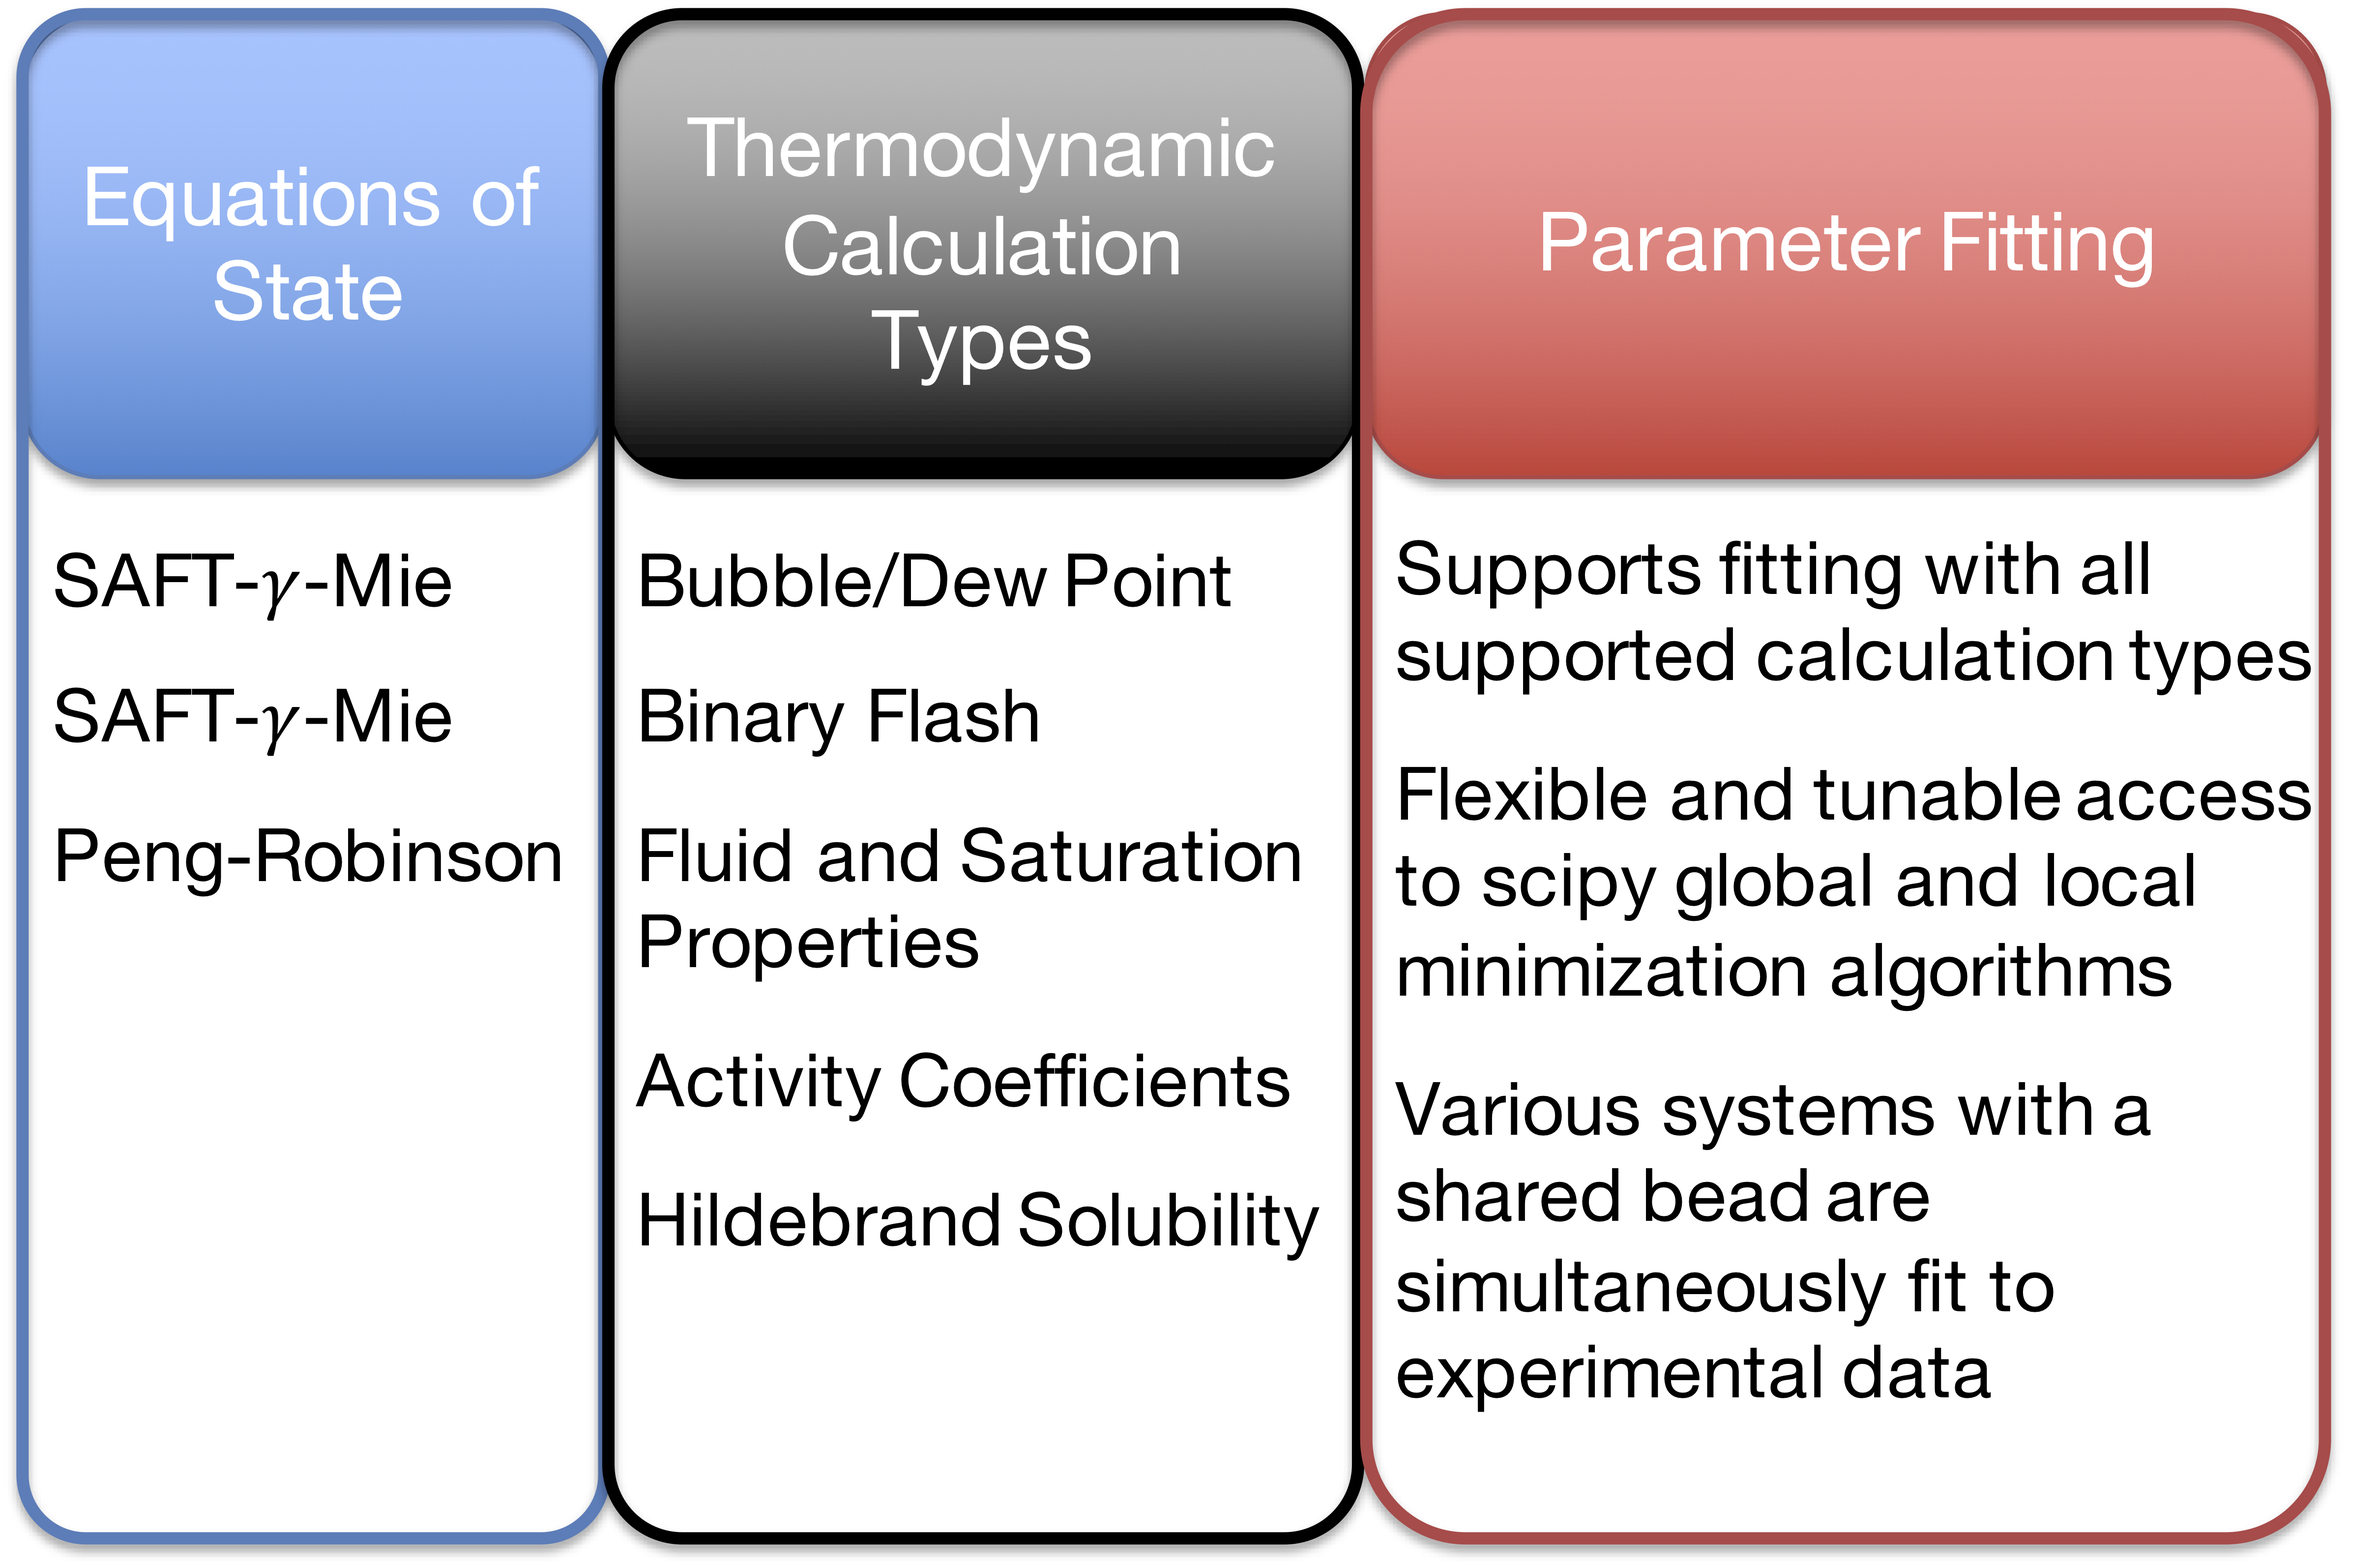
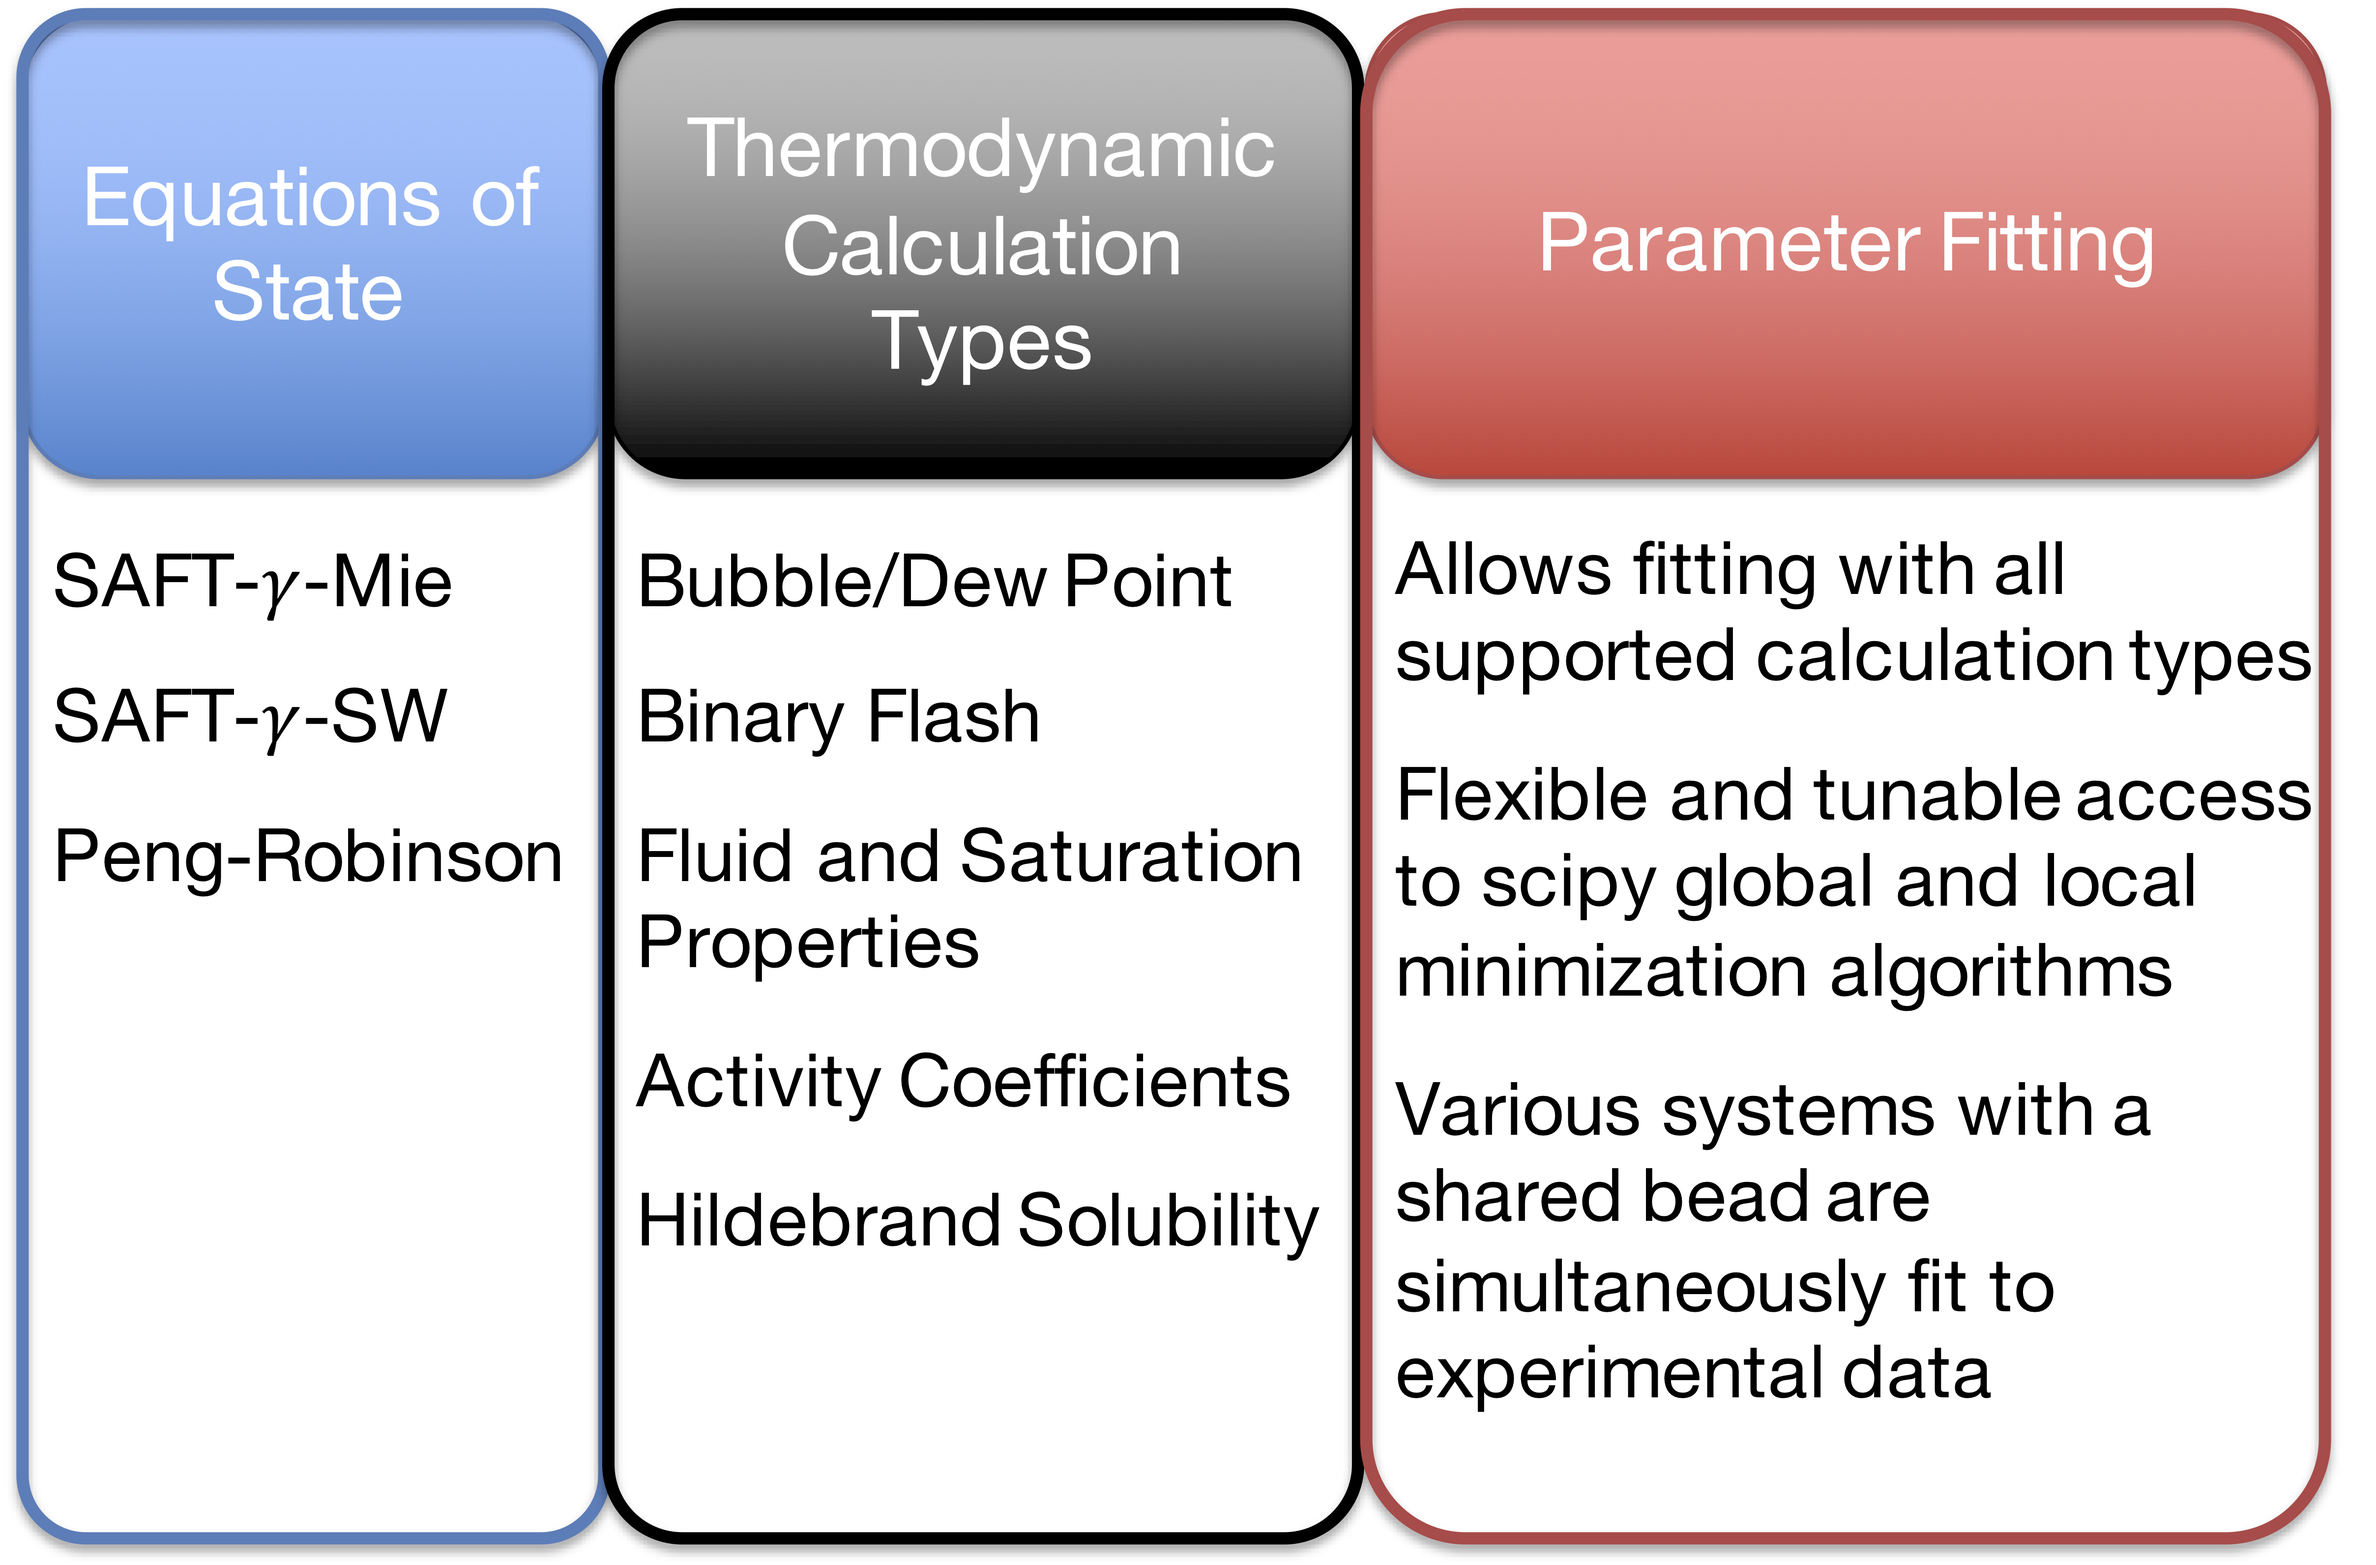
changed from meeting with Erik

Changed region(s): [[0.5936, 0.3421, 0.9061, 0.4043], [0.125, 0.4354, 0.1875, 0.4976]]

diff --git a/_posts/2020-06-19-jennifer-clark.md b/_posts/2020-06-19-jennifer-clark.md
@@ -25,7 +25,9 @@ layout: poster
 
 ## Introduction
 
-First open-source application of its kind for Statistical Associating Fluid Theory (SAFT) EOS
+First open-source application of its kind for Statistical Associating Fluid Theory (SAFT) EOS.
+
+Despite the power of SAFT coarse graining, its use has been limited by lack of availability of a freely accessible application.
 
 ![logo]({{ site.url }}{{ site.baseurl }}/assets/images/jennifer_clark/logo.png)
 ***Figure 1**: DESPASITO: **D**etermining **E**quilibrium **S**tate and **P**arametrization: **A**pplication for **S**AFT, **I**ntended for **T**hermodynamic **O**utput*
@@ -40,8 +42,8 @@ First open-source application of its kind for Statistical Associating Fluid Theo
 
 ### Available Alternatives:
  - Bottled SAFT [4] is a web application meant to remedy issue of parameterizing by applying corresponding states for homonuclear molecules, but represents a general correlation that relies on possessing critical properties.
- - PC-SAFT calculations are available in Aspen
- - gSAFT package from Process Systems Enterprise, PSE, is a more direct comparison supporting SAFT-γ-Mie
+ - PC-SAFT calculations are available in the commercial package, Aspen
+ - The commercial package gSAFT from Process Systems Enterprise, PSE, is a more direct comparison supporting SAFT-γ-Mie
 
 ## Statistical Associating Fluid Theory, SAFT
 
@@ -53,7 +55,7 @@ First open-source application of its kind for Statistical Associating Fluid Theo
 ***Figure 2**: SAFT-γ-Mie has been successfully applied to various larger scale systems, DESPASITO makes contributing more accessible.*
 
 - As of now, a new contributor to this emerging method of coarse-graining would need to write their code from scratch
-- Our application makes SAFT accessible
+- Our application makes SAFT accessible to the general public
 
 ## How it Works
 
@@ -91,7 +93,7 @@ $ python -m despasito -i input.json
 
 DESPASITO can also be imported as a library so that a user can use the EOS object's accessible attributes.
 
-For example, we can break-down the helmholtz energy components for hexane.
+For example, we can break-down the Helmholtz energy components for hexane.
 
 ````markdown
 beads  = ['CH3', 'CH2']
@@ -121,8 +123,8 @@ These parameters were taken from Dufal et al. [3]
 
 ![features]({{ site.url }}{{ site.baseurl }}/assets/images/jennifer_clark/features.png)
 
-- Although our intention was to create a platform to fit parameters for the SAFT EOS, we are equipped to handle other equations of state that can’t be solve explicitly.
-- We added the Peng-Robinson EOS as an example of a non-SAFT EOS, but Extended UNIQUAC would be an ideal addition.
+- Although our intention was to create a platform to fit parameters for the SAFT EOS, we are equipped to handle other equations of state that can’t be solved explicitly (e.g. Extended UNIQUAC).
+- We added the Peng-Robinson EOS as an example of a non-SAFT EOS.
 - Code Optimization: Implemented options to provide Numba, Cython, or Fortran modules.
 - Shared-Memory Parallelization: Numerous thermodynamic or parametrization calculations can be distributed to multiple nodes for HPC resources.
 
